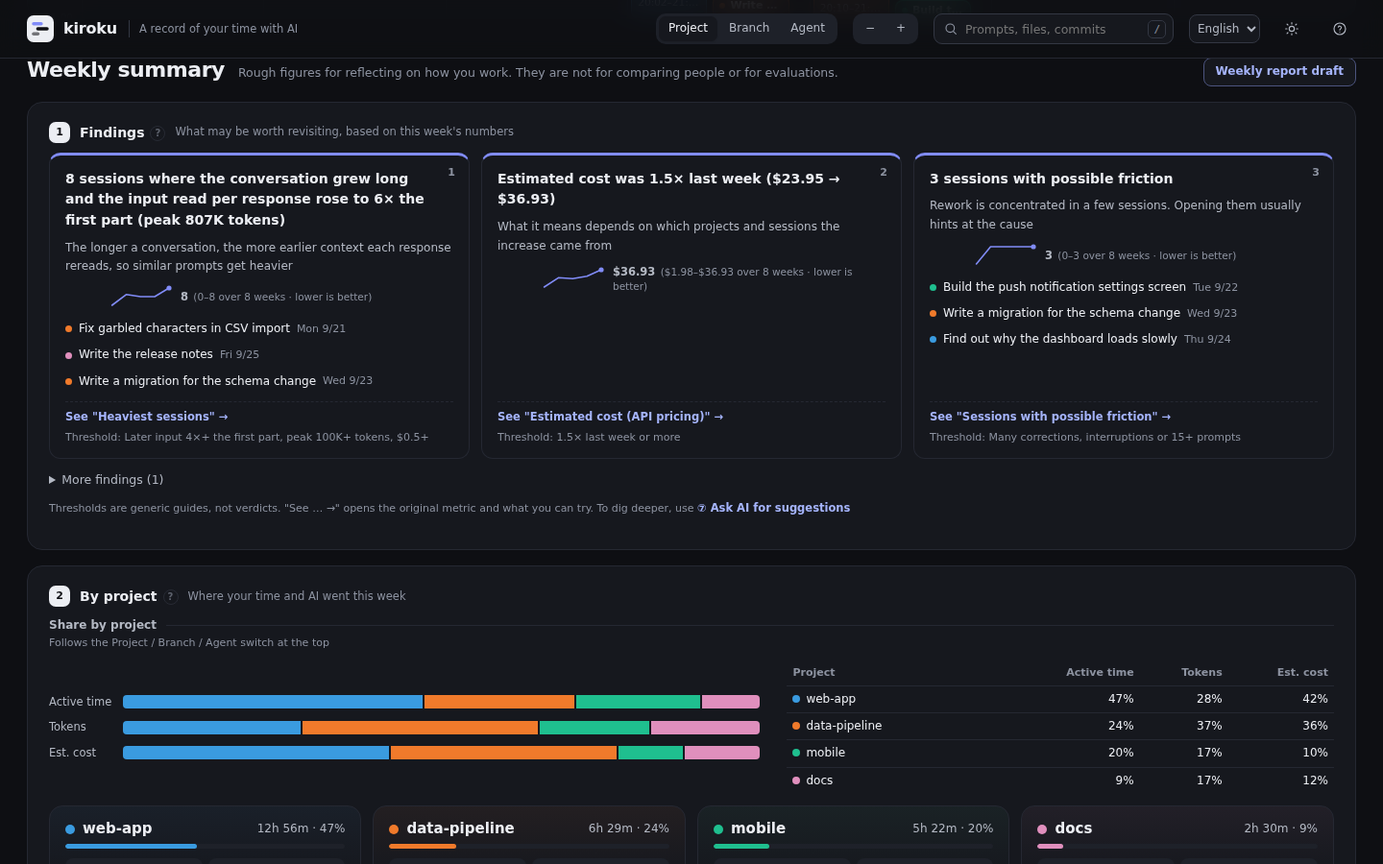
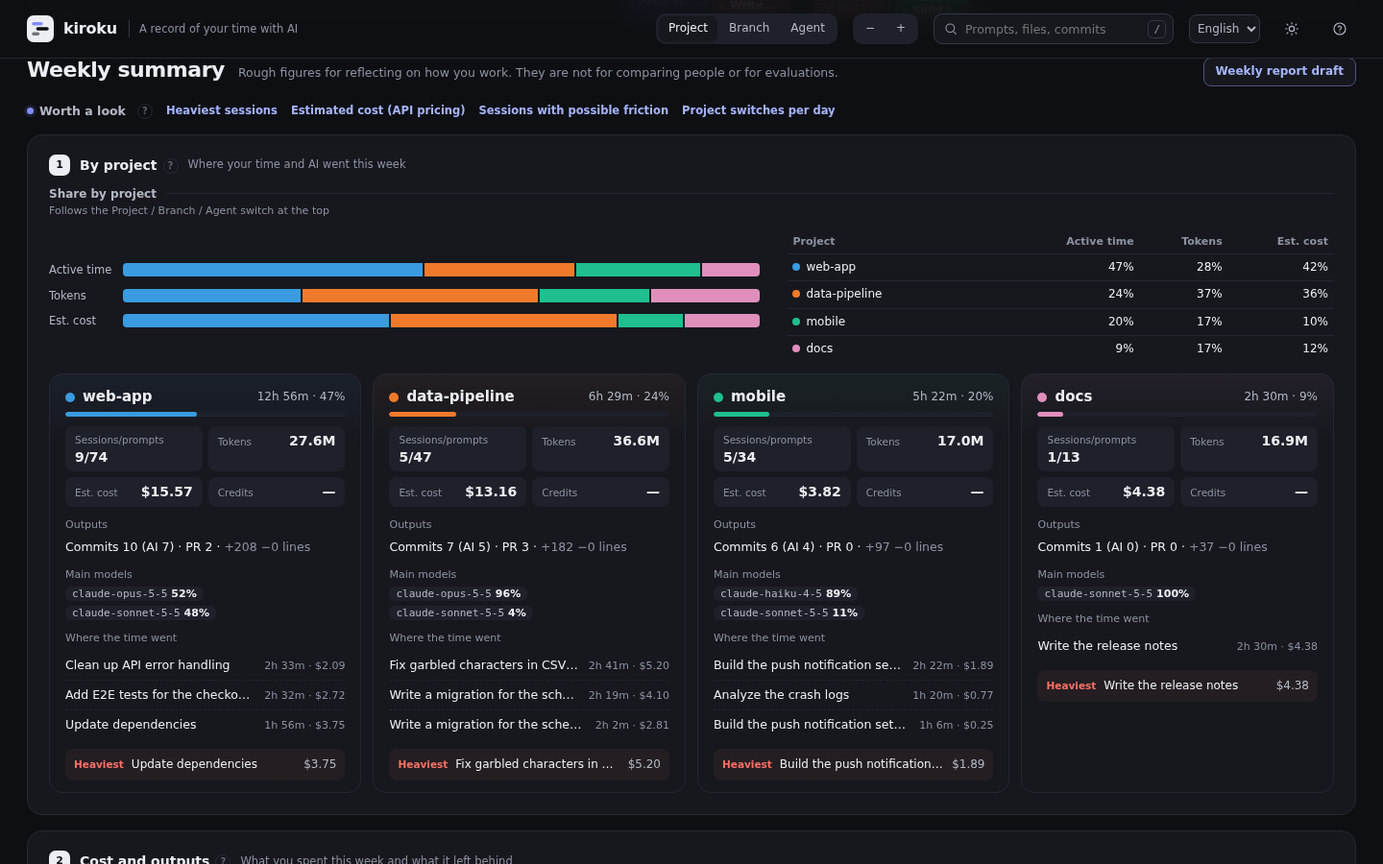
気づきの箱をなくし、基準を超えた指標にその場で印を付ける (#81)
- サマリーの先頭の「気づき」パネルをなくし、サマリーはプロジェクト別から始める
- 基準を超えた指標には、その指標の場所に印（●）を付け、見えたこと・なぜ気にするか・推移・該当するセッション・基準を添える
- 先頭の「見直す候補」に、その指標の名前を優先度の高い順に並べ、押すとその指標へ移動して説明を開く
- パネルの番号を詰め、README・ガイド・利用者目線のテストのシナリオ・週次サマリーの画像を合わせる。e2e に見直す候補の確認を足す

diff --git a/docs/guide.md b/docs/guide.md
@@ -60,11 +60,11 @@ go install github.com/MichinaoShimizu/kiroku@latest
   - セッションの「作った PR」：AI が作った PR（`gh pr create` や GitHub のツールの結果に出た URL）を開きます
   - セッションの「履歴ファイル」：そのセッションの元の履歴を開きます。`kiroku serve` では画面から（読み込んだセッションの履歴ファイルだけを、手元の画面にだけ返します）、`kiroku html` では `file://` で開きます。SQLite の履歴は開けないので、パスのコピーだけです
 - カレンダーの下に、週次・月次サマリーを表示します
-  - ① 気づき：基準を超えた指標を「見えたこと・なぜ気にするか・該当するセッション・基準」の形で、優先度の高い順に 3 件まで示します（残りは「ほかの気づき」に折りたたみます）。「〜を見る」を押すと元の指標へ移動し、説明を開きます。各カードには、その指標の 8 週（月表示では 8 か月）の推移を表示します。試したことが効いたかは、次の期間以降にこの推移で確かめます
-  - ② プロジェクト別：いちばん上に、作業時間・トークン・目安コスト・クレジットのそれぞれを何割どこに使ったかを、横に並んだ帯と表で示します（上位 5 つ＋その他）。くくりは上の「プロジェクト・ブランチ・エージェント」の切り替えに合わせて変わります。指標どうしを見比べると「時間の割に目安コストが多い」プロジェクトやブランチ、エージェントがわかります。その下のカードでは、プロジェクトごとに「どのセッションに何時間、どれだけのトークン・目安コスト・クレジットを、どのモデルを中心に使い、どれが最も重かったか」とアウトプットを示します（6 つを超える分は「ほか N プロジェクトも見る」で表示）
-  - ③ コストとアウトプット：使ったもの（作業時間・目安コスト・トークン・クレジット）と残ったもの（コミット・PR・変更した行など）を並べます
-  - ④ 時間の使い方：推定を含む指標（言い直し・中断、切り替え、並列、待たせ時間）は「詳しい指標（推定を含む）」に折りたたんでいます
-  - ⑤ AI の使い方、⑥ 週 / 月のかたち（最後に「計測の状態」）、⑦ AI に改善案を聞く が続きます
+  - 見直す候補：基準を超えた指標には、その指標の場所に印（●）を付け、見えたこと・なぜ気にするか・8 週（月表示では 8 か月）の推移・該当するセッション・基準を添えます。サマリーのいちばん上の「見直す候補」に、その指標の名前を優先度の高い順に並べ、押すとその指標へ移動して説明を開きます。試したことが効いたかは、次の期間以降にこの推移で確かめます
+  - ① プロジェクト別：いちばん上に、作業時間・トークン・目安コスト・クレジットのそれぞれを何割どこに使ったかを、横に並んだ帯と表で示します（上位 5 つ＋その他）。くくりは上の「プロジェクト・ブランチ・エージェント」の切り替えに合わせて変わります。指標どうしを見比べると「時間の割に目安コストが多い」プロジェクトやブランチ、エージェントがわかります。その下のカードでは、プロジェクトごとに「どのセッションに何時間、どれだけのトークン・目安コスト・クレジットを、どのモデルを中心に使い、どれが最も重かったか」とアウトプットを示します（6 つを超える分は「ほか N プロジェクトも見る」で表示）
+  - ② コストとアウトプット：使ったもの（作業時間・目安コスト・トークン・クレジット）と残ったもの（コミット・PR・変更した行など）を並べます
+  - ③ 時間の使い方：推定を含む指標（言い直し・中断、切り替え、並列、待たせ時間）は「詳しい指標（推定を含む）」に折りたたんでいます
+  - ④ AI の使い方、⑤ 週 / 月のかたち（最後に「計測の状態」）、⑥ AI に改善案を聞く が続きます
 - 各指標の「?」を押すと、定義と、そこから言えること・言えないこと・打てる手を表示します
 - 「AI に改善案を聞く」には、表示中の週・月の集計をもとに、使い方の改善案を AI に聞くためのプロンプトを表示します。「プロンプトをコピー」でコピーし、お使いの AI エージェントに貼り付けて使います（kiroku 自身は AI を呼び出しません）。セッション名（依頼文の一部）とプロジェクト名を含むため、送る前に内容を確認してください
 - 検索（右上、`/`）：依頼文・タイトル・プロジェクト・ブランチ・エージェントに加えて、変更したファイル・PR・そのセッションの間のコミット（件名・ハッシュ・ファイル）も探します。カレンダーは一致したセッションだけを表示し、サマリーの位置に全期間の検索結果を「セッション」と「コミット」（件名・本文・ハッシュ・変更したファイルで一致）に分けて、一致した箇所の抜粋つきで表示します。凡例で非表示にしたものは除きます。結果を押すと、その週を開いて詳細を表示します
@@ -117,7 +117,7 @@ go install github.com/MichinaoShimizu/kiroku@latest
 
 | 指標 | 定義 |
 |---|---|
-| 気づき | 次の基準を超えた指標を、優先度の高い順に 3 件まで表示し、残りは「ほかの気づき」に折りたたみます（下の並びは優先度の順ではありません）。利用上限に 1 回以上当たった／長くなった会話がある（後半の入力が前半の 4 倍以上・最大 10 万トークン以上・$0.5 以上）／軽い作業での高いモデルの合計が、目安コスト（$2 以上）の 10% 以上かつ $1 以上／目安コスト $1 以上でコミットも PR もない Claude Code のセッションが、期間の目安コスト（$2 以上）の 40% 以上／目安コストが前の期間（$1 以上）の 1.5 倍以上／1 コミットあたりの目安コストが前の期間の 1.5 倍以上（コミット 3 回以上）／言い直し・中断のあった依頼が 20% 以上（依頼 10 件以上）、またはこじれたかもしれないセッションがある／キャッシュから読んだ割合が 50% 未満（トークン 1M 以上）／コミットまで行ったセッションが 25% 未満（セッション 5 件以上、コミットか PR が 1 件以上）／1 日の切り替えが平均 5 回以上／作業 4 時間以上で集中ブロックが 0 回／待たせ時間の 90 パーセンタイルが 15 分以上（n≥10）／深夜が 2 時間以上かつ作業の 25% 以上 |
+| 見直す候補 | 次の基準を超えた指標に印を付け、その名前を優先度の高い順に並べます（下の並びは優先度の順ではありません）。利用上限に 1 回以上当たった／長くなった会話がある（後半の入力が前半の 4 倍以上・最大 10 万トークン以上・$0.5 以上）／軽い作業での高いモデルの合計が、目安コスト（$2 以上）の 10% 以上かつ $1 以上／目安コスト $1 以上でコミットも PR もない Claude Code のセッションが、期間の目安コスト（$2 以上）の 40% 以上／目安コストが前の期間（$1 以上）の 1.5 倍以上／1 コミットあたりの目安コストが前の期間の 1.5 倍以上（コミット 3 回以上）／言い直し・中断のあった依頼が 20% 以上（依頼 10 件以上）、またはこじれたかもしれないセッションがある／キャッシュから読んだ割合が 50% 未満（トークン 1M 以上）／コミットまで行ったセッションが 25% 未満（セッション 5 件以上、コミットか PR が 1 件以上）／1 日の切り替えが平均 5 回以上／作業 4 時間以上で集中ブロックが 0 回／待たせ時間の 90 パーセンタイルが 15 分以上（n≥10）／深夜が 2 時間以上かつ作業の 25% 以上 |
 | プロジェクト別 | プロジェクトごとの作業時間と割合、セッション / 依頼の数、トークン・目安コスト・クレジット、中心のモデル（トークンの割合。トークンを記録しないエージェントは回数）、稼働時間の長いセッション上位 3 件、最も重いセッション（目安コスト、なければクレジット、なければトークンで判定）。複数のプロジェクトが同時に稼働していた時間は按分します |
 | 作業していた時間 | いずれかのセッションが稼働していた時間（重なりは 1 回として計算） |
 | AI の延べ稼働 | 並列で稼働した分も合算した時間 |
@@ -197,7 +197,7 @@ kiroku serve --prices my-prices.json
 
 | 指標 | 言えること | 言えないこと | 打てる手 |
 |---|---|---|---|
-| 気づき | どの指標から見直すとよさそうか | 良し悪しの判定。基準は一律の目安で、使い方によっては当てはまらない | 1 つ選んで次の期間に試し、同じ指標で変化を確かめる |
+| 見直す候補 | どの指標から見直すとよさそうか | 良し悪しの判定。基準は一律の目安で、使い方によっては当てはまらない | 1 つ選んで次の期間に試し、同じ指標で変化を確かめる |
 | プロジェクト別 | 時間と AI をどのプロジェクトに配分したか | プロジェクトの重要度や価値 | 想定と配分がずれていれば、使い方や優先順位を見直す |
 | 作業していた時間 | AI と一緒に作業していた時間の総量 | 人が集中していたか。放置していた時間も含む | 前の期間との増減で、AI に頼る割合の変化をつかむ |
 | AI の延べ稼働 | AI をどれだけ働かせたか。作業していた時間との差は並列の度合い | 人が削減できた時間や生産性 | 作業していた時間とほぼ同じなら、待ち時間に別の作業を並行させる余地がある |

diff --git a/docs/guide.en.md b/docs/guide.en.md
@@ -60,11 +60,11 @@ The old forms `kiroku --serve`, `--json` and `-o` still work for now. `--weekly`
   - A session's "Pull requests created": opens pull requests created by AI (URLs that appeared in the results of `gh pr create` or GitHub tools)
   - A session's "History file": opens the original history of that session. In `kiroku serve` it opens from the view (only history files of loaded sessions are served, and only to the view on your machine); in `kiroku html` it opens via `file://`. SQLite histories cannot be opened, so you can only copy the path
 - Below the calendar, the weekly and monthly summary is shown
-  - ① Findings: up to 3 metrics that crossed a threshold, highest priority first (the rest under "More findings"), as cards with what was observed, why it matters, the related sessions and the "Threshold". Press "See … →" to jump to the original metric and open its explanation. Each card shows that metric's 8-week trend (8 months in month view). To see whether something you tried worked, check this trend in later periods
-  - ② By project: starts with bars and a table showing what share of active time, tokens, estimated cost and credits went where (top 5 plus Other). The grouping follows the Project / Branch / Agent switch at the top. Comparing the rows shows, for example, a project, branch or agent whose share of estimated cost is larger than its share of time. Below that, the cards show, for each project, which sessions took how many hours, how many tokens, how much estimated cost and credits, which models were mainly used, and which session was the heaviest, along with outputs (beyond 6 projects, press "Show N more projects")
-  - ③ Cost and outputs: what you spent (active time, estimated cost, tokens, credits) next to what was left behind (commits, pull requests, lines changed and so on)
-  - ④ How you spent time: metrics that include estimates (corrections and interruptions, switches, parallel, wait time) are collapsed under "More metrics (includes estimates)"
-  - Then come ⑤ How you used AI, ⑥ Shape of the week / month (ending with "Data sources") and ⑦ Ask AI for suggestions
+  - Worth a look: a metric that crossed a threshold is marked (●) where it appears, with what was observed, why it matters, its 8-week trend (8 months in month view), the related sessions and the threshold. "Worth a look" at the top of the summary lists those metrics in priority order; press one to jump to it and open its explanation. To see whether something you tried worked, check the trend in later periods
+  - ① By project: starts with bars and a table showing what share of active time, tokens, estimated cost and credits went where (top 5 plus Other). The grouping follows the Project / Branch / Agent switch at the top. Comparing the rows shows, for example, a project, branch or agent whose share of estimated cost is larger than its share of time. Below that, the cards show, for each project, which sessions took how many hours, how many tokens, how much estimated cost and credits, which models were mainly used, and which session was the heaviest, along with outputs (beyond 6 projects, press "Show N more projects")
+  - ② Cost and outputs: what you spent (active time, estimated cost, tokens, credits) next to what was left behind (commits, pull requests, lines changed and so on)
+  - ③ How you spent time: metrics that include estimates (corrections and interruptions, switches, parallel, wait time) are collapsed under "More metrics (includes estimates)"
+  - Then come ④ How you used AI, ⑤ Shape of the week / month (ending with "Data sources") and ⑥ Ask AI for suggestions
 - Press "?" on any metric to see its definition and what it tells you, what it doesn't tell you, and what to try
 - "Ask AI for suggestions" shows a prompt, based on the figures for the week or month shown, that asks an AI for suggestions on how you use it. Copy it with "Copy prompt" and paste it into the AI agent you use (kiroku itself never calls an AI). It includes session names (parts of your prompts) and project names, so check it before sending
 - Search (top right, `/`): in addition to prompts, titles, projects, branches and agents, it searches files changed, pull requests and commits made during each session (subject, hash, files). The calendar shows only matching sessions, and all-time results appear in place of the summary in two lists, Sessions and Commits (matched on subject, body, hash and files changed), with excerpts showing where they matched. Items hidden in the legend are left out. Press a result to open its week and show the details
@@ -117,7 +117,7 @@ The image shows the English view. In a Japanese browser it is shown in Japanese 
 
 | Metric | Definition |
 |---|---|
-| Findings | Shows up to 3 metrics that crossed these thresholds, highest priority first; the rest are folded under "More findings" (the list below is not in priority order): hit a usage limit 1 or more times / there are Long conversations (later input 4× or more the first part, peak 100K tokens or more, $0.5 or more) / Expensive models for light work total 10% or more of estimated cost ($2 or more) and $1 or more / Claude Code sessions of $1 or more estimated cost with no commit or pull request make up 40% or more of the period's estimated cost ($2 or more) / estimated cost is 1.5× the previous period ($1 or more) or more / estimated cost per commit is 1.5× the previous period or more (3 or more commits) / Prompts with corrections or interruptions are 20% or more (10 or more prompts), or there are Sessions with possible friction / Share of input read from cache is under 50% (1M tokens or more) / Sessions that reached a commit are under 25% (5 or more sessions, with at least one commit or pull request) / Project switches per day average 5 or more / no Focus blocks with 4 hours or more of work / the 90th percentile of Wait time is 15 minutes or more (n≥10) / Late night is 2 hours or more and 25% or more of work |
+| Worth a look | Marks the metrics that crossed these thresholds and lists their names in priority order (the list below is not in priority order): hit a usage limit 1 or more times / there are Long conversations (later input 4× or more the first part, peak 100K tokens or more, $0.5 or more) / Expensive models for light work total 10% or more of estimated cost ($2 or more) and $1 or more / Claude Code sessions of $1 or more estimated cost with no commit or pull request make up 40% or more of the period's estimated cost ($2 or more) / estimated cost is 1.5× the previous period ($1 or more) or more / estimated cost per commit is 1.5× the previous period or more (3 or more commits) / Prompts with corrections or interruptions are 20% or more (10 or more prompts), or there are Sessions with possible friction / Share of input read from cache is under 50% (1M tokens or more) / Sessions that reached a commit are under 25% (5 or more sessions, with at least one commit or pull request) / Project switches per day average 5 or more / no Focus blocks with 4 hours or more of work / the 90th percentile of Wait time is 15 minutes or more (n≥10) / Late night is 2 hours or more and 25% or more of work |
 | By project | Per project: active time and its share, number of sessions / prompts, tokens, estimated cost and credits, main models (share of tokens; counts for agents that don't record tokens), the top 3 sessions by run time, and the heaviest session (judged by estimated cost, else credits, else tokens). Time when several projects ran at once is split between them |
 | Active time | Time when any session was running (overlaps count once) |
 | Total AI run time | Time added up, including sessions running in parallel |
@@ -197,7 +197,7 @@ Press "?" on any metric in the view to see the same explanation. It is also incl
 
 | Metric | Tells you | Doesn't tell you | What to try |
 |---|---|---|---|
-| Findings | Which metric is worth reviewing first | Whether something is good or bad. Thresholds are generic and may not fit how you work | Pick one, try it next period, and check the change with the same metric |
+| Worth a look | Which metric is worth reviewing first | Whether something is good or bad. Thresholds are generic and may not fit how you work | Pick one, try it next period, and check the change with the same metric |
 | By project | How you divided time and AI across projects | How important or successful a project was | If the split differs from what you intended, revisit how you work or your priorities |
 | Active time | Total time you worked together with AI | Whether you were focused. Includes time you left a session idle | Compare with the previous period to see how much more or less you rely on AI |
 | Total AI run time | How much work you gave to AI. The gap from active time shows how much ran in parallel | Time saved or productivity | If it is close to active time, you could do other work while waiting |

diff --git a/docs/usability.md b/docs/usability.md
@@ -29,12 +29,12 @@ Playwright で開き、次の 4 つの環境で試します。テーマは既定
 |---|---|---|---|
 | 1 | 初めて開いた人 | この画面が何で、先週自分が何をしていたかを知る | 30 秒以内に「何の画面か」と「先週いちばん時間を使ったプロジェクト」を言える |
 | 2 | 週報を書く人 | 先週の作業を週報に貼る | 週報の下書きの文面を開いて確かめ、コピーし、そのまま貼れる形になっている。セッション名を直す必要があることに気づける |
-| 3 | AI の費用を抑えたい人 | 来週から何を変えるか 1 つ決める | 気づきから行動を 1 つ選び、何をすればいいかを自分の言葉で言える |
-| 4 | 試した結果を知りたい人 | 先週試したことが効いたか確かめる | 変えたことに関係する指標を、気づきのカードの推移（8 週）か、「〜を見る」や「?」で開いた指標から見つけ、変化の方向を読み取って効いたかどうかを判断できる（気づきから消えた場合や、判断できない理由も含めて） |
+| 3 | AI の費用を抑えたい人 | 来週から何を変えるか 1 つ決める | 「見直す候補」から行動を 1 つ選び、何をすればいいかを自分の言葉で言える |
+| 4 | 試した結果を知りたい人 | 先週試したことが効いたか確かめる | 変えたことに関係する指標を、印の付いた指標の推移（8 週）か、「見直す候補」や「?」で開いた指標から見つけ、変化の方向を読み取って効いたかどうかを判断できる（見直す候補から外れた場合や、判断できない理由も含めて） |
 | 5 | バグの原因を探す人 | 特定のファイルを AI が触ったセッションを見つける | 検索から該当セッションとコミットにたどり着き、依頼の流れを読める |
 | 6 | 利用上限で止まった人 | いつ・何をしていて上限に当たったかを知る | 上限に当たった時刻とセッションを見つけ、「?」から打てる手を読める |
 | 7 | 1 つのセッションを振り返る人 | うまくいかなかったセッションを AI と振り返る | 詳細を開き、振り返り用のプロンプトをコピーできる |
-| 8 | スマホで見る人 | 移動中に今週の様子をざっと見る | 横にはみ出さず、要点・気づき・カレンダーを読める |
+| 8 | スマホで見る人 | 移動中に今週の様子をざっと見る | 横にはみ出さず、要点・見直す候補・カレンダーを読める |
 | 9 | キーボードだけで使う人 | 週を移動し、セッションの詳細を開いて閉じる | マウスを使わずにできる。どこにいるかが見える |
 | 10 | 1 年を振り返ってシェアしたい人 | 今年の使い方を 1 枚の画像にして SNS に貼る | 「1 年の露光」を開き、図の読み方と「光の名前」の理由がわかり、画像に何が載って何が載らないかを確かめてから、PNG を保存できる |
 

diff --git a/README.ja.md b/README.ja.md
@@ -27,7 +27,7 @@ AI エージェント（Claude Code・Kiro（IDE・CLI・Kiro Crew）・Amazon Q
 画像は英語表示です。画面はブラウザの言語に合わせて日本語か英語で表示されます（右上の選択欄で切り替え可）。
 
 - **カレンダー**：いつ・どのプロジェクトで・何を依頼したかを、週 / 月のカレンダーで表示します。手元の git のコミットも並べ、どこに何をどう変更したかを確認できます
-- **気づき**：基準を超えた指標を、見えたこと・なぜ気にするか・該当するセッション・8 週（月表示では 8 か月）の推移の形で、優先度の高い順に示します
+- **見直す候補**：基準を超えた指標に、その場で印を付け、見えたこと・なぜ気にするか・該当するセッション・8 週（月表示では 8 か月）の推移を添えます。サマリーの先頭に、優先度の高い順に名前を並べます
 - **サマリー**：プロジェクト別・日別に、コスト（作業時間・トークン・目安コスト・クレジット）とアウトプット（コミット・PR・AI が編集した行）を並べて表示します。プロジェクト・ブランチ・エージェントごとに、作業時間の割合と、トークン・目安コスト・クレジットの割合を帯で見比べられます。各指標には、そこから言えること・言えないことの説明が付きます
 - **1 年の露光**：1 年ぶんの作業していた時間を、長時間露光の写真のような 1 枚（横に日付、縦に時刻）で描きます。使い方の傾向を「光の名前」で示し、シェア用の画像を PNG で保存・コピーできます。画像に載るのは集計と光の筋だけで、依頼文やプロジェクト名は載りません
 - **検索と週報**：依頼文・変更したファイル・コミットを全期間から探せます。週・月ごとに、やったこと・コミット・PR をまとめた週報・月報の下書きを、文面を確かめてからコピーできます

diff --git a/README.md b/README.md
@@ -27,7 +27,7 @@ kiroku connects to the network only when `install.sh` or `kiroku update` (includ
 The view is in English or Japanese, following your browser's language; switch it with the selector at the top right.
 
 - **Calendar**: when, in which project, and what you asked, by week or month. Your local git commits appear alongside, so you can see what changed where.
-- **Findings**: metrics that crossed a threshold, in priority order, each with what was observed, why it matters, the related sessions and an 8-week (or 8-month) trend.
+- **Worth a look**: metrics that crossed a threshold are marked where they appear, with what was observed, why it matters, the related sessions and an 8-week (or 8-month) trend, and listed in priority order at the top of the summary.
 - **Summary**: cost (time, tokens, estimated cost, credits) next to outputs (commits, pull requests, lines edited by AI), by project and by day. Share bars compare each project's, branch's or agent's share of active time with its share of tokens, estimated cost and credits. Every metric explains what it can and cannot tell you.
 - **Year in review**: your year of active time drawn like a long-exposure photo (date across, time of day down), with a name for your pattern ("your light") and an image to share, saved as a PNG or copied. The image shows only totals and the streaks of light, never prompts or project names.
 - **Search and weekly report**: search prompts, edited files and commits across all time, and preview and copy a weekly or monthly report draft of what you did, your commits and pull requests.

diff --git a/CHANGELOG.md b/CHANGELOG.md
@@ -2,6 +2,12 @@
 
 Notable changes to kiroku, in the style of [Keep a Changelog](https://keepachangelog.com/). Add changes under `## Unreleased`; its contents decide the next version ([Semantic Versioning](https://semver.org/), see `sh tools/next-version.sh`), and each release on GitHub uses its section here as the release notes.
 
+## Unreleased
+
+### Changed
+
+- The Findings panel at the top of the summary is gone. A metric that crosses a threshold is now marked (●) where it appears, with what was observed, why it matters, its 8-week trend, the related sessions and the threshold, and "Worth a look" at the top lists those metrics in priority order. The summary now starts with By project
+
 ## v0.3.0 - 2026-10-04
 
 ### Added
